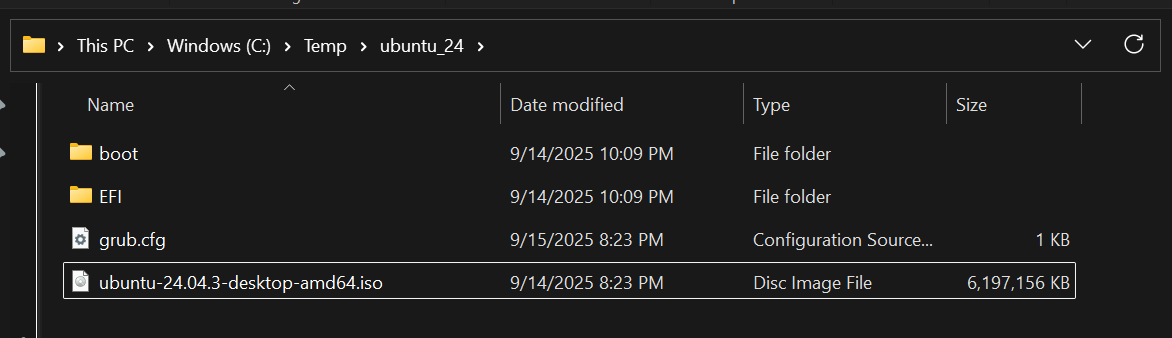
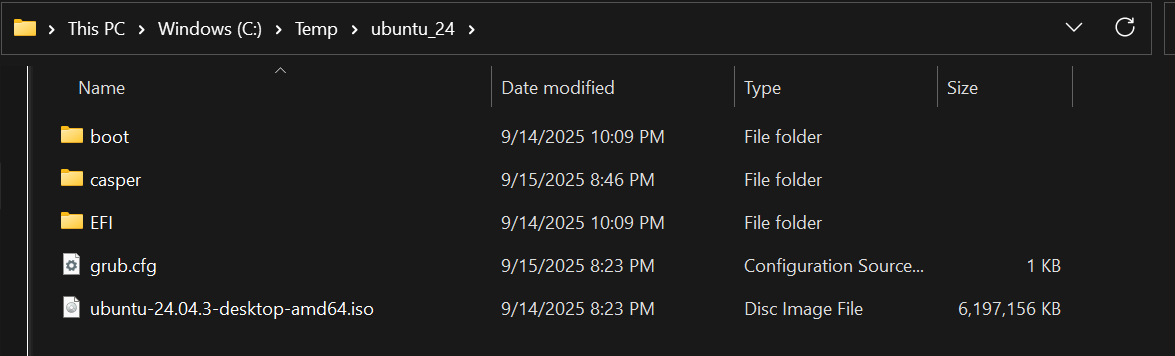
Update ubuntu guide image

diff --git a/pages/os/ubuntu.md b/pages/os/ubuntu.md
@@ -8,7 +8,7 @@ This boot method will not work with the python webserver as grub depends on keep
 # OS Setup
 ## Get source files
 1. Download the latest ubuntu ISO
-1. Mount the ISO and copy the folders "boot" and "EFI"  to a folder on your machine - this can be somewhere like `C:\inetpub\ubuntu` or `/var/srv/ubuntu`. I'll refer to this as the serve root in the guide.
+1. Mount the ISO and copy the folders "boot", "casper" and "EFI"  to a folder on your machine - this can be somewhere like `C:\inetpub\ubuntu` or `/var/srv/ubuntu`. I'll refer to this as the serve root in the guide.
 1. Copy the boot\grub\grub.cfg to the serve root
 1. Copy the Ubuntu ISO to the serve root
 1. Edit the grub.cfg to match [the sample grub.cfg](ubuntu/grub.cfg). Replace the SERVERIP with the servers IP and ISOFILE.iso with the ISO path.
